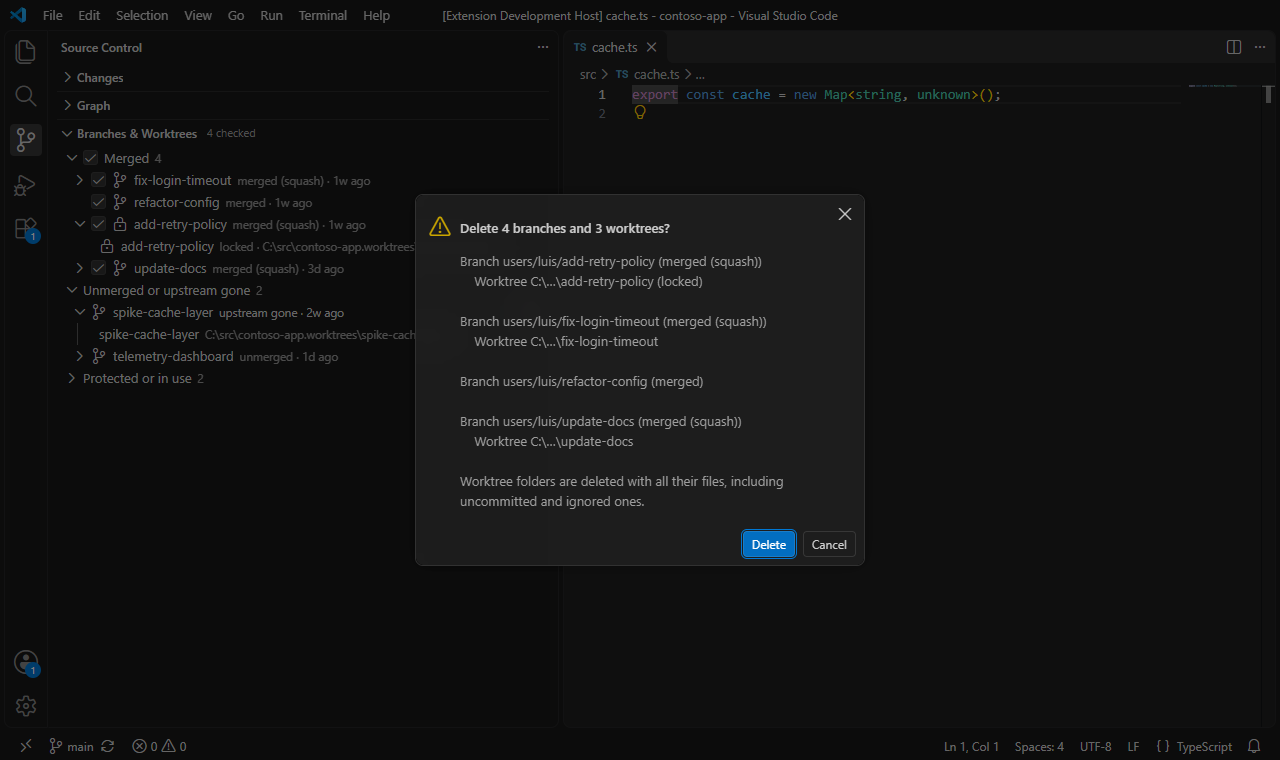
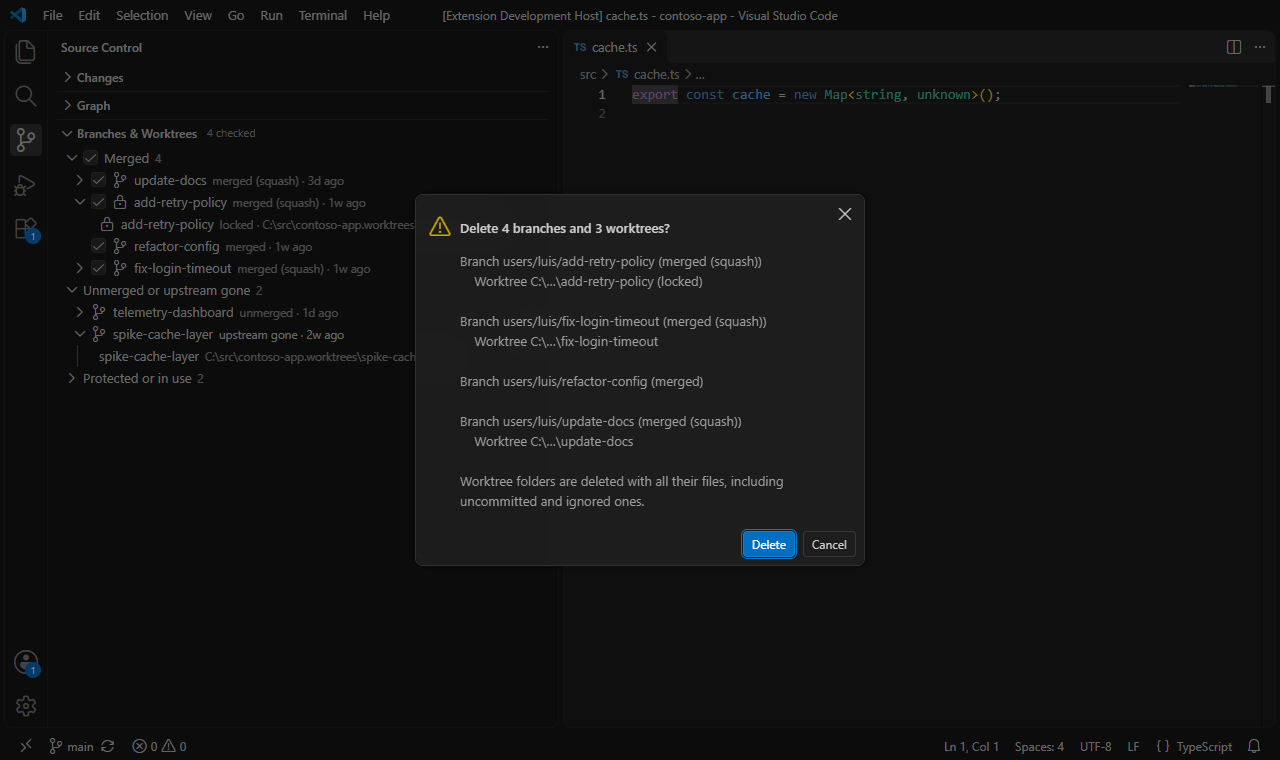
Sort branches newest first

Changed region(s): [[0.0625, 0.2118, 0.3125, 0.3632], [0.0625, 0.3934, 0.3125, 0.4842]]

diff --git a/src/branches.ts b/src/branches.ts
@@ -96,9 +96,9 @@ export function isSafelyMerged(status: MergeStatus): boolean {
   return status === "merged" || status === "squashMerged";
 }
 
-/** Oldest last commit first, then by name. */
+/** Newest last commit first, then by name. */
 export function compareByAge(a: Pick<BranchRef, "name" | "committerDate">, b: Pick<BranchRef, "name" | "committerDate">): number {
-  return a.committerDate - b.committerDate || a.name.localeCompare(b.name);
+  return b.committerDate - a.committerDate || a.name.localeCompare(b.name);
 }
 
 /** `into` names a target other than the default branch, for example `merged into preview`. */

diff --git a/README.md b/README.md
@@ -15,7 +15,7 @@ or terminal that still used it, and only then deleting the branch.
 - **Delete Branch…** (*Branch Reaper: Delete Branch…*, `Ctrl+Alt+Shift+D`, `Cmd+Alt+Shift+D` on
   macOS): check one or more local branches and press `Enter`; `Enter` without checking anything
   deletes the highlighted branch. Branches are listed in two sections, *Merged* and *Unmerged or
-  upstream gone*, oldest last commit first. Each item shows
+  upstream gone*, newest last commit first. Each item shows
   - the branch name and the age of its last commit,
   - its worktrees and their paths, with a lock icon for locked worktrees,
   - its merge status: *merged*, *merged (squash)*, *upstream gone* (the remote branch was deleted,
@@ -44,13 +44,13 @@ or terminal that still used it, and only then deleting the branch.
      merge that would not change it). The status then says where, for example *merged (squash)
      into release/1.5*.
 
-  All branches are checked (oldest first), except those with a worktree that has uncommitted
+  All branches are checked (newest first), except those with a worktree that has uncommitted
   changes (it may belong to an agent session that is still running) and those whose upstream is
   gone but whose changes were not found in the default branch. Uncheck the ones to keep.
 
 - **Branches & Worktrees view** in the Source Control side bar (`Ctrl+Shift+G`; if it is hidden,
   enable it in the `…` menu → *Views*): local branches grouped into *Merged*, *Unmerged or
-  upstream gone* and *Protected or in use*, oldest last commit first, with merge status, last
+  upstream gone* and *Protected or in use*, newest last commit first, with merge status, last
   commit age, worktrees and lock state. Long branch names are shortened to their last segment
   (`users/luis/new-feature` shows as `new-feature`, with more segments if two branches would
   look alike); hover a branch to see its full name, upstream and worktrees. Branches whose
@@ -163,7 +163,7 @@ Requirements: Node.js 20+ and git.
 npm install
 npm test          # unit tests, then integration tests in a downloaded VS Code
 npm run package   # writes branch-reaper-<version>.vsix
-code --install-extension branch-reaper-0.2.1.vsix
+code --install-extension branch-reaper-0.2.2.vsix
 ```
 
 The VSIX contains only JavaScript, so the same file works on Windows, macOS and Linux, and one
